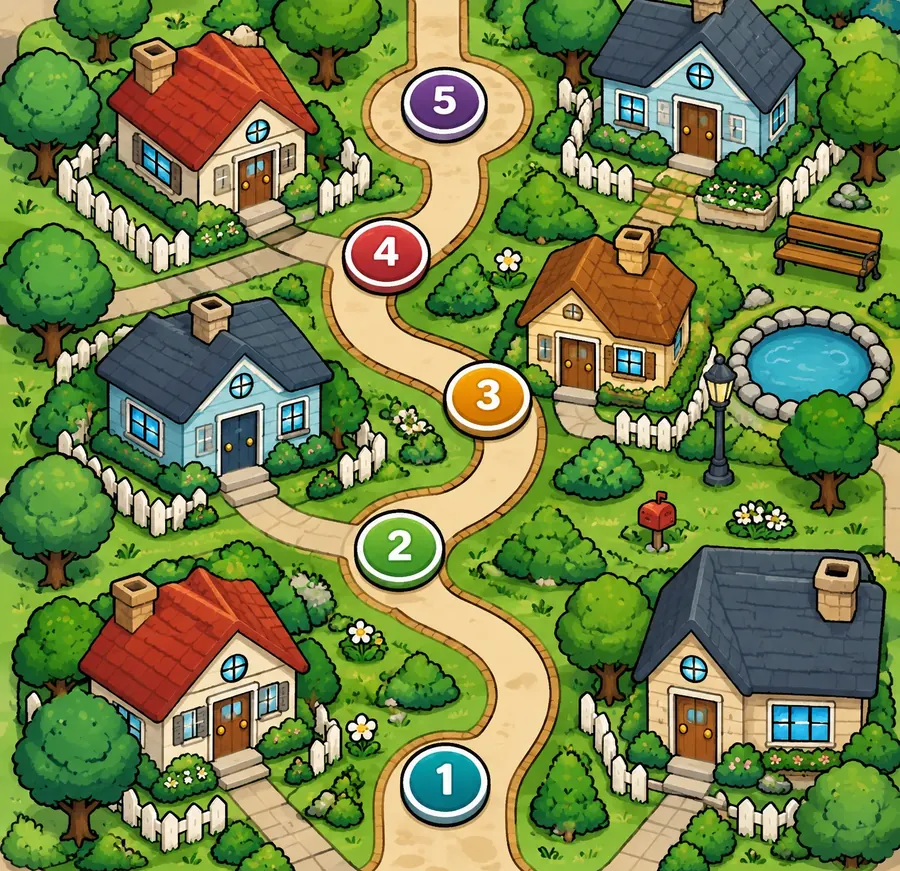
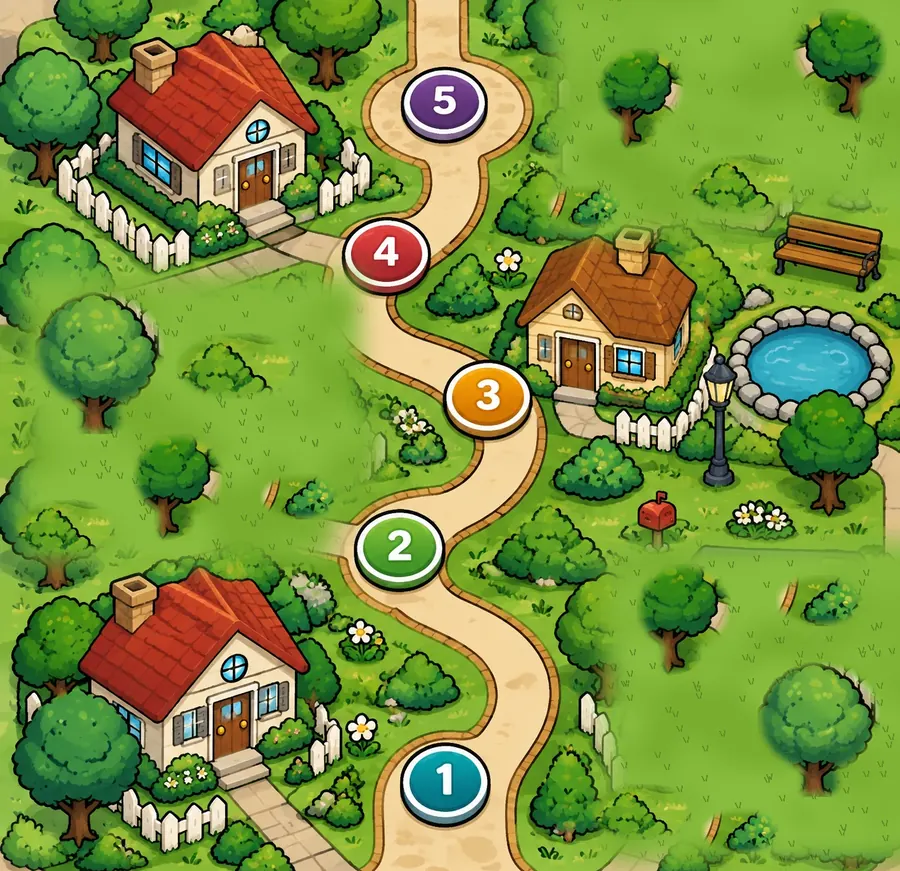
Calmer path map (three houses swapped for lawn and trees); toy box is the 25/50/75 stop

diff --git a/js/app.js b/js/app.js
@@ -916,8 +916,13 @@
       const stars = rec.done ? '<span class="lp-stars">' + [1, 2, 3].map((k) => '<i class="' + (k <= (rec.stars || 1) ? 'on' : '') + '">★</i>').join('') + '</span>' : '';
       const face = n === save.level ? '<span class="lp-face"><img class="jasper-img" alt="" src="' + (isGolden(n) ? 'assets/leo-full.webp' : jasperFullSrc) + '"></span>' : '';
       const label = (isGolden(n) ? 'Golden level ' : 'Level ') + n + (rec.done ? ', ' + rec.stars + ' stars, ' + tr + ' of ' + maxTr + ' treats' : rec.skipped ? ', skipped' : locked ? ', locked' : '');
+      if (n % CHEST_EVERY === 0) {
+        const k = n / CHEST_EVERY, opened = save.chests[k], ready = chestReady(k);
+        html += '<button class="lp-toybox' + (ready ? ' ready' : '') + (opened ? ' opened' : '') + (n === save.level ? ' current' : '') + (locked ? ' locked' : '') + '" style="' + style + '"' + (ready ? ' data-chest="' + k + '"' : ' data-level="' + n + '"') + (locked ? ' disabled' : '') + ' aria-label="' + label + (ready ? ', toy box ready to open' : opened ? ', toy box opened' : ', toy box opens when this level is finished') + '">' + CHEST_SVG + stars + '<b>' + n + '</b>' + (ready ? '<small>Open!</small>' : '') + '</button>';
+        continue;
+      }
       html += '<button class="' + cls + '" style="' + style + '" data-level="' + n + '"' + (locked ? ' disabled' : '') + ' aria-label="' + label + '">' + face + '<b>' + n + '</b>' + stars + (rec.done ? '<span class="lp-treats">' + tr + '/' + maxTr + '</span>' : '') + '</button>';
-      if (n % CHEST_EVERY === 0) { // toy box on the grass beside every 25th level
+      if (false) { // toy box on the grass beside every 25th level
         const k = n / CHEST_EVERY, opened = save.chests[k], ready = chestReady(k), bx = x + 22;
         html += '<button class="lp-chest' + (ready ? ' ready' : '') + (opened ? ' opened' : '') + '" style="left:' + bx + '%;top:' + (y - 6) + 'px" data-chest="' + k + '" aria-label="Toy box ' + k + (opened ? ', opened' : ready ? ', ready to open' : ', unlocks after level ' + n) + '">' + CHEST_SVG + '<small>' + (opened ? 'Opened' : ready ? 'Open!' : 'Level ' + n) + '</small></button>';
       }
@@ -926,7 +931,7 @@
     wrap.innerHTML = html;
     const recs = Object.values(save.levels);
     $('#levels-sub').textContent = recs.filter((r) => r.done).length + ' solved · ' + treatTotals().levels + ' treats from levels';
-    const cur = wrap.querySelector('.lp-node.current') || wrap.querySelector('.lp-chest.ready');
+    const cur = wrap.querySelector('.lp-node.current, .lp-toybox.current') || wrap.querySelector('.lp-toybox.ready');
     if (cur) setTimeout(() => cur.scrollIntoView({ block: 'center' }), 30);
   }
   function openChest(k) {

diff --git a/css/style.css b/css/style.css
@@ -729,3 +729,17 @@ html.dark .lp-node.locked { background: rgba(40,40,44,.78); color: rgba(255,255,
 .level-path.map .lp-chest { width: 88px; }
 .level-path.map .lp-chest::before { content: ""; position: absolute; top: -4px; left: 50%; width: 76px; height: 70px; transform: translateX(-50%); border-radius: 50%; background: radial-gradient(circle, rgba(255,250,235,.95) 0 58%, rgba(255,250,235,0) 72%); z-index: -1; }
 .level-path.map .lp-chest.ready::before { background: radial-gradient(circle, rgba(255,236,170,1) 0 52%, rgba(255,210,90,0) 72%); }
+
+/* toy box standing in for every 25th level */
+.lp-toybox { position: absolute; transform: translate(-50%, -58%); width: 82px; height: 76px; border: 0; padding: 0; background: none; cursor: pointer; z-index: 1; font: inherit; }
+.lp-toybox::before { content: ""; position: absolute; left: 50%; top: 52%; width: 86px; height: 70px; transform: translate(-50%, -50%); border-radius: 50%; background: radial-gradient(circle, rgba(255,250,235,.95) 0 55%, rgba(255,250,235,0) 72%); z-index: -1; }
+.lp-toybox svg { width: 76px; height: 68px; filter: drop-shadow(0 4px 3px rgba(0,0,0,.35)); }
+.lp-toybox b { position: absolute; left: 50%; bottom: -12px; transform: translateX(-50%); background: #fff; color: #5C3B00; font-size: 14px; font-weight: 800; padding: 2px 10px; border-radius: 999px; box-shadow: 0 2px 5px rgba(0,0,0,.25); }
+.lp-toybox .lp-stars { top: -12px; }
+.lp-toybox small { position: absolute; left: 50%; top: -14px; transform: translateX(-50%); background: #FFC93C; color: #5C3B00; font-size: 11px; font-weight: 800; padding: 1px 8px; border-radius: 999px; white-space: nowrap; }
+.lp-toybox.ready::before { background: radial-gradient(circle, rgba(255,236,170,1) 0 50%, rgba(255,210,90,0) 72%); }
+.lp-toybox.ready svg { animation: chestWiggle 1.6s ease-in-out infinite; filter: drop-shadow(0 0 10px rgba(255,200,60,1)); }
+.lp-toybox.locked svg { filter: grayscale(.55) drop-shadow(0 4px 3px rgba(0,0,0,.3)); }
+.lp-toybox.locked b { color: #7A6A55; }
+.lp-toybox.current b { background: var(--accent); color: #fff; }
+@media (prefers-reduced-motion: reduce) { .lp-toybox.ready svg { animation: none; } }

diff --git a/sw.js b/sw.js
@@ -1,5 +1,5 @@
 // Offline support: keep a copy of the game on the device.
-const CACHE = 'jasperdoku-v16';
+const CACHE = 'jasperdoku-v17';
 const FILES = [
   './', './index.html', './css/style.css', './js/config.js', './js/engine.js', './js/app.js',
   './assets/jasper.webp', './assets/jasper-full.webp', './assets/leo.webp', './assets/leo-full.webp', './assets/jasper-placeholder.svg', './assets/icon-192.png', './assets/icon-512.png', './assets/apple-touch-icon.png', './manifest.webmanifest',
